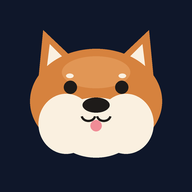
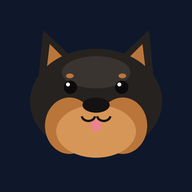
入口頁：圖示改為黑柴，側邊標誌改用圖片
Claude-Session: https://claude.ai/code/session_018WoQN4UTXGKGS2TM6guR2t

diff --git a/index.html b/index.html
@@ -15,10 +15,10 @@
   
   <!-- CSS Stylesheet (Cache Busted v1.0.39) -->
   <link rel="stylesheet" href="style.css?v=1.0.40">
-  <link rel="manifest" href="manifest.json?v=3">
+  <link rel="manifest" href="manifest.json?v=4">
   <meta name="theme-color" content="#0f172a">
-  <link rel="icon" href="icons/icon-192.png?v=3">
-  <link rel="apple-touch-icon" href="icons/icon-192.png?v=3">
+  <link rel="icon" href="icons/icon-192.png?v=4">
+  <link rel="apple-touch-icon" href="icons/icon-192.png?v=4">
 </head>
 <body class="theme-dark">
 
@@ -61,7 +61,7 @@
   <aside class="drawer" id="navDrawer" aria-hidden="true">
     <div class="drawer-header">
       <div class="drawer-branding">
-        <span class="branding-logo">🐶</span>
+        <img class="branding-logo branding-img" src="icons/icon-192.png?v=4" alt="">
         <span class="branding-text">Simon's Hub</span>
       </div>
       <button class="icon-btn close-btn" id="drawerCloseBtn" aria-label="關閉選單">

diff --git a/style.css b/style.css
@@ -219,6 +219,14 @@ html, body {
   gap: 10px;
 }
 
+.branding-img {
+  width: 1.6rem;
+  height: 1.6rem;
+  border-radius: 6px;
+  object-fit: cover;
+  flex-shrink: 0;
+}
+
 .branding-logo {
   font-size: 1.4rem;
 }
